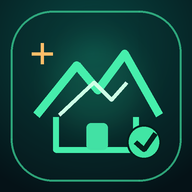
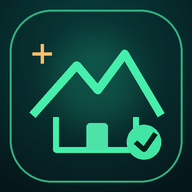
Add files via upload

diff --git a/index.html b/index.html
@@ -8,80 +8,75 @@
 <meta name="theme-color" content="#07191c">
 <link rel="apple-touch-icon" href="icon-192.png">
 <style>
-:root{--bg:#07191c;--panel:#10272a;--panel2:#143236;--text:#e8f4ef;--mute:#91aaa3;--acc:#42e6a4;--cyan:#55d9d0;--amber:#ffbd69;--line:#28504d;color-scheme:dark;box-sizing:border-box;padding-top:env(safe-area-inset-top,0px)}
-*{box-sizing:border-box;font-family:Inter,ui-sans-serif,system-ui,-apple-system,"Segoe UI",sans-serif!important}
-html,body{margin:0;background:radial-gradient(ellipse at 50% -15%,#174344 0%,var(--bg) 52%);color:var(--text);font-size:16px;-webkit-text-size-adjust:100%;min-height:100%}
-html{scroll-padding-top:env(safe-area-inset-top,0px)}
-main{padding:20px 16px calc(82px + env(safe-area-inset-bottom,0px));max-width:680px;margin:0 auto}
-h1{font-size:22px;color:var(--text);letter-spacing:-.5px;margin:8px 0 14px;font-weight:800}
-.art{color:var(--acc);font-size:13px;line-height:1.1;margin:4px 0 12px}
-.card{background:linear-gradient(145deg,rgba(20,50,54,.96),rgba(12,34,37,.96));border:1px solid var(--line);border-radius:18px!important;padding:14px;margin-bottom:11px;box-shadow:0 8px 22px #0002}
-.next{border:1px solid var(--acc);box-shadow:0 0 0 1px #42e6a422,0 8px 24px #0003}.done{opacity:.58}
-.row{display:flex;align-items:center;justify-content:space-between;gap:9px}
-.tip{font-size:13px;color:var(--mute)}.rd{color:var(--acc)}
-button{background:#143b3a;border:1px solid #32665e;border-radius:12px!important;color:var(--acc);font-size:14px;font-weight:650;padding:9px 11px;text-decoration:none}
-input[type=checkbox]{appearance:none;width:23px;height:23px;margin:0;background:#0a2022;border:1px solid #5d8178;border-radius:7px!important;vertical-align:middle;flex:none;position:relative}
-input[type=checkbox]:checked{background:var(--acc);border-color:var(--acc)}input[type=checkbox]:checked:after{content:"✓";position:absolute;inset:-1px 0 0;text-align:center;color:#06231c;font-weight:900;font-size:16px}
-select,input[type=text],input[type=time],input[type=number]{background:#0a2022;color:var(--text);border:1px solid #32605a;border-radius:11px!important;font-size:16px;padding:10px;width:100%}
-.t{color:var(--cyan);font-weight:750;flex:none;width:6ch}.w{display:flex;gap:7px;flex-wrap:wrap;margin-top:9px}
-nav{position:fixed;left:0;right:0;bottom:0;display:flex;background:rgba(5,22,24,.96);backdrop-filter:blur(18px);border-top:1px solid #28504d;padding:7px 6px calc(7px + env(safe-area-inset-bottom,0px));z-index:5}
-nav button{flex:1;height:48px;text-decoration:none;color:var(--mute);background:transparent;border:0;border-radius:12px!important;padding:0;font-size:12px;letter-spacing:.2px}nav button.on{color:#06251e;background:var(--acc)}
+:root{--bg:#07191c;--text:#e8f4ef;--mute:#91aaa3;--acc:#42e6a4;--line:#28504d;color-scheme:dark;box-sizing:border-box;padding-top:env(safe-area-inset-top,0px)}
+*{box-sizing:border-box;font-family:Inter,system-ui,-apple-system,"Segoe UI",sans-serif!important}
+html,body{margin:0;background:radial-gradient(ellipse at 50% -15%,#174344 0%,var(--bg) 55%);color:var(--text);font-size:16px;-webkit-text-size-adjust:100%;min-height:100%}
+main{padding:18px 15px calc(78px + env(safe-area-inset-bottom,0px));max-width:680px;margin:0 auto}
+h1{font-size:22px;color:var(--text);letter-spacing:-.4px;margin:8px 0 14px;font-weight:800}.art{color:var(--acc);font-size:13px;line-height:1.1;margin:4px 0 10px}
+.card{background:linear-gradient(145deg,#143236,#0c2225);border:1px solid var(--line);border-radius:17px!important;padding:14px;margin-bottom:11px;box-shadow:0 8px 22px #0002}.next{border:1px solid var(--acc);box-shadow:0 0 0 1px #42e6a422}.done{opacity:.55}
+.row{display:flex;align-items:center;justify-content:space-between;gap:8px}.tip{font-size:13px;color:var(--mute)}.rd{color:var(--acc)}
+button{background:#143b3a;border:1px solid #32665e;border-radius:11px!important;color:var(--acc);font-size:13px;font-weight:650;padding:8px 10px;text-decoration:none}
+input[type=checkbox]{appearance:none;width:23px;height:23px;margin:0;background:#0a2022;border:1px solid #5d8178;border-radius:7px!important;vertical-align:middle;flex:none;position:relative}input[type=checkbox]:checked{background:var(--acc);border-color:var(--acc)}input[type=checkbox]:checked:after{content:"✓";position:absolute;inset:-1px 0 0;text-align:center;color:#06231c;font-weight:900;font-size:16px}
+select,input[type=text],input[type=time],input[type=number]{background:#0a2022;color:var(--text);border:1px solid #32605a;border-radius:10px!important;font-size:16px;padding:9px;width:100%}.t{color:#55d9d0;flex:none;width:6ch;font-weight:750}.w{display:flex;gap:7px;flex-wrap:wrap;margin-top:8px}
+nav{position:fixed;left:0;right:0;bottom:0;display:flex;background:rgba(5,22,24,.97);border-top:1px solid #28504d;padding:6px 5px calc(6px + env(safe-area-inset-bottom,0px));z-index:5;gap:3px}nav button{flex:1;height:47px;text-decoration:none;color:var(--mute);background:transparent;border:0;border-radius:10px!important;padding:0;font-size:11px;letter-spacing:.2px}nav button.on{color:#06251e;background:var(--acc)}
 </style>
 </head>
 <body>
 <main id="app"></main>
-<nav><button id="t1">[TODAY]</button><button id="t2">[WEEK]</button><button id="t3">[EDIT]</button></nav>
+<nav><button id="t1">Today</button><button id="t2">Week</button><button id="t3">Edit</button><button id="meals" onclick="location.href='./meals/index.html'">Meals</button><button id="lift" onclick="location.href='./lift/index.html'">Lift</button></nav>
 <script>
-var IC={sleep:"☾",water:"滴",study:"▤",social:"♡",eat:"✦",free:"•",move:"↗",clean:"⌂"};
+var IC={sleep:"zz",water:"~",study:"##",social:"@",eat:"*",free:"+",move:">"};
 var DEF=[
- {id:201,t:"08:00",n:"Wake up. Open curtains, get daylight and drink 250ml water",c:"sleep",ml:250},
- {id:202,t:"08:05",n:"Use the toilet, wash hands and start the day",c:"free"},
- {id:203,t:"08:10",n:"Make your bed and open the window briefly to freshen the room",c:"clean"},
- {id:204,t:"08:15",n:"Morning face care: gently cleanse, pat dry and moisturise; apply SPF 30–50 if going outdoors",c:"free"},
- {id:205,t:"08:20",n:"Brush teeth for 2 minutes with fluoride toothpaste. Spit, don't rinse",c:"free"},
- {id:206,t:"08:25",n:"Shower day: wash armpits, groin, bum, feet and skin folds with body wash; rinse well",c:"free",d:"days:1,3,5,0"},
- {id:242,t:"08:25",n:"Non-shower day: wash face, armpits, groin and feet; use a clean flannel and freshen up",c:"free",d:"days:2,4,6"},
- {id:243,t:"08:32",n:"Hair wash: shampoo your scalp gently, rinse well, then condition the mid-lengths and ends; rinse as directed",c:"free",d:"days:0,3"},
- {id:207,t:"08:40",n:"Dry thoroughly after showering or washing, especially between toes and skin folds; use a clean towel",c:"free"},
- {id:208,t:"08:40",n:"Apply deodorant to dry underarms; put on fresh underwear, socks and clothes",c:"free"},
- {id:209,t:"08:45",n:"Comb/style hair and check nails, beard and general grooming",c:"free"},
- {id:210,t:"08:50",n:"Apply fragrance: start with 1–2 sprays on clean, dry skin",c:"free"},
- {id:211,t:"09:00",n:"Breakfast and any planned supplements (e.g. creatine if using)",c:"eat"},
- {id:212,t:"10:30",n:"Drink 250ml water and take a short movement break",c:"water",ml:250},
- {id:213,t:"12:30",n:"Lunch and a glass of water",c:"eat","ml":250},
- {id:214,t:"13:00",n:"Use mouthwash at a separate time from brushing; follow the bottle directions",c:"free"},
- {id:215,t:"15:30",n:"Drink 250ml water; take a short walk or stretch break",c:"water",ml:250},
- {id:216,t:"18:00",n:"Workout or planned activity; take water and follow your training plan",c:"move"},
- {id:217,t:"19:00",n:"Dinner and a glass of water",c:"eat","ml":250},
- {id:218,t:"20:00",n:"10-minute room reset: put clothes in laundry, clear surfaces and put items away",c:"clean"},
- {id:219,t:"20:10",n:"Wash dishes, wipe kitchen worktops and sink after eating",c:"clean"},
- {id:220,t:"20:20",n:"Check bins and recycling; empty if full and replace the liner",c:"clean"},
- {id:221,t:"21:30",n:"Evening face care: cleanse gently and apply moisturiser",c:"free"},
- {id:222,t:"21:40",n:"Floss carefully between every tooth; be gentle around the gumline",c:"free"},
- {id:223,t:"21:45",n:"Gently clean your tongue with the scraper; don't press hard",c:"free"},
- {id:224,t:"21:50",n:"Brush teeth for 2 minutes with fluoride toothpaste. Spit, don't rinse",c:"free"},
- {id:225,t:"22:10",n:"Prepare tomorrow: choose clothes, check plans and get anything ready",c:"free"},
- {id:226,t:"22:20",n:"Final home check: cups away, floor clear, doors/windows secure",c:"clean"},
- {id:227,t:"23:00",n:"Start wind-down: dim lights, lower stimulation and stop busy tasks",c:"sleep"},
- {id:228,t:"23:15",n:"Put phone away or use a calm activity; keep bedroom cool, dark and quiet",c:"sleep"},
- {id:229,t:"00:00",n:"Lights out. Sleep target: midnight to 8:00am (8 hours)",c:"sleep"},
- {id:230,t:"17:30",n:"Laundry day: wash clothes, dry them fully and put them away",c:"clean",d:"d1"},
- {id:231,t:"17:30",n:"Bathroom clean: sink, taps, toilet, shower/bath and floor",c:"clean",d:"d2"},
- {id:232,t:"17:30",n:"Dust bedroom and living areas: desk, shelves, skirting and reachable surfaces",c:"clean",d:"d3"},
- {id:233,t:"17:30",n:"Vacuum bedroom and main floors; mop hard floors if needed",c:"clean",d:"d4"},
- {id:234,t:"17:30",n:"Wash towels and bath mat; hang them fully open to dry",c:"clean",d:"d5"},
- {id:235,t:"11:00",n:"Change bedsheets and pillowcases; put used bedding in the wash",c:"clean",d:"d6"},
- {id:236,t:"11:30",n:"Weekly kitchen reset: clean hob, microwave exterior, fridge handles and bin area",c:"clean",d:"d0"},
- {id:237,t:"12:00",n:"Personal upkeep: trim/file nails, clean trimmer heads and wipe grooming tools",c:"free",d:"d0"},
- {id:238,t:"12:15",n:"Check toiletries and laundry supplies; add anything running low to your shopping list",c:"free",d:"d0"},
- {id:239,t:"17:00",n:"Monthly deep clean: bathroom tiles, grout, shower screen and hard-to-reach areas",c:"clean",d:"m1"},
- {id:240,t:"17:20",n:"Clean windows, mirrors and inside appliances (microwave/fridge shelves)",c:"clean",d:"m1"},
- {id:241,t:"17:40",n:"Declutter one drawer, shelf or storage area; put unwanted items aside",c:"clean",d:"m1"}
+{id:1,t:"08:00",n:"Wake up, drink water, open curtains and get 10–20 minutes of daylight",c:"sleep",ml:250},
+{id:2,t:"08:05",n:"Use the toilet, wash hands and make your bed",c:"free"},
+{id:21,t:"08:10",n:"Weigh in (after toilet, before breakfast)",c:"free",d:"d1"},
+{id:30,t:"08:15",n:"Face: gentle cleanser, moisturiser and SPF 30–50",c:"free"},
+{id:31,t:"08:20",n:"Brush teeth for 2 minutes with fluoride toothpaste; spit, don't rinse",c:"free"},
+{id:32,t:"08:25",n:"Shower: wash underarms, external groin, bottom, feet and sweaty areas",c:"free",d:"days:1,3,5,0"},
+{id:33,t:"08:25",n:"Non-shower day: wash face, underarms, external groin and feet with a clean flannel",c:"free",d:"days:2,4,6"},
+{id:34,t:"08:40",n:"Dry thoroughly, especially feet and skin folds; put on clean underwear and socks",c:"free"},
+{id:35,t:"08:45",n:"Apply deodorant to clean, dry underarms; moisturise dry body areas",c:"free"},
+{id:36,t:"08:50",n:"Hair wash: shampoo scalp, rinse, condition mid-lengths and ends",c:"free",d:"days:0,3"},
+{id:37,t:"08:55",n:"Comb/style hair and apply fragrance (start with 1–2 sprays)",c:"free"},
+{id:3,t:"09:00",n:"Breakfast and 5g creatine if this is part of your plan",c:"eat"},
+{id:4,t:"10:00",n:"Study / focused work block 1",c:"study"},
+{id:5,t:"11:00",n:"Drink water and stretch for 5 minutes",c:"water",ml:250},
+{id:6,t:"11:30",n:"Walk outside for 20–30 minutes",c:"move"},
+{id:7,t:"12:30",n:"Protein snack or shake if it fits your nutrition plan",c:"eat",ml:300},
+{id:8,t:"13:30",n:"Caffeine cut-off: avoid caffeine from this point",c:"sleep"},
+{id:9,t:"14:00",n:"Lunch and a glass of water",c:"eat",ml:250},
+{id:26,t:"14:30",n:"Mouthwash if using: follow label; keep separate from brushing",c:"free"},
+{id:10,t:"15:00",n:"Study / focused work block 2",c:"study"},
+{id:11,t:"16:30",n:"Drink water and take a short movement break",c:"water",ml:250},
+{id:13,t:"18:00",n:"Strength workout on planned training days; otherwise light activity",c:"move",d:"wk",ml:250},
+{id:15,t:"19:00",n:"Post-workout protein if needed to meet daily protein target",c:"eat"},
+{id:16,t:"19:30",n:"Dinner",c:"eat"},
+{id:40,t:"20:00",n:"Five-minute room reset: clothes away, surfaces clear, rubbish checked",c:"clean"},
+{id:41,t:"20:10",n:"Wash dishes and wipe kitchen worktops after eating",c:"clean"},
+{id:18,t:"21:00",n:"Water; prepare tomorrow's clothes and any food that needs defrosting",c:"water",ml:200},
+{id:19,t:"22:00",n:"Floss between teeth, then gently clean tongue",c:"free"},
+{id:27,t:"22:10",n:"Brush teeth for 2 minutes with fluoride toothpaste; spit, don't rinse",c:"free"},
+{id:28,t:"22:25",n:"Wash face and apply moisturiser; lip balm if needed",c:"free"},
+{id:29,t:"22:40",n:"Prepare tomorrow: check schedule, tidy bedside and set alarm",c:"free"},
+{id:20,t:"23:00",n:"Wind down: dim lights, reduce screens and relax",c:"sleep"},
+{id:100,t:"00:00",n:"Lights out — target 8 hours until 08:00",c:"sleep"},
+{id:50,t:"17:00",n:"Laundry: wash, dry and put clothes away",c:"clean",d:"d1"},
+{id:51,t:"17:00",n:"Clean bathroom: sink, toilet, shower and taps",c:"clean",d:"d2"},
+{id:52,t:"17:00",n:"Dust bedroom, desk and shelves",c:"clean",d:"d3"},
+{id:53,t:"17:00",n:"Vacuum bedroom and main floors; mop hard floors if needed",c:"clean",d:"d4"},
+{id:54,t:"17:00",n:"Wash towels and bath mat; replace with clean ones",c:"clean",d:"d5"},
+{id:55,t:"11:00",n:"Change bedsheets and pillowcases; air the bed",c:"clean",d:"d6"},
+{id:56,t:"11:30",n:"Kitchen reset: clean hob, sink, fridge handles and bins",c:"clean",d:"d0"},
+{id:57,t:"12:00",n:"Weekly grooming: trim/file nails, clean trimmer and hairbrush",c:"free",d:"d0"},
+{id:58,t:"12:30",n:"Weekly review: check progress and plan the coming week",c:"free",d:"d0"},
+{id:59,t:"11:00",n:"Monthly deep clean: bathroom tiles, grout and hard-to-reach areas",c:"clean",d:"m1"},
+{id:60,t:"11:30",n:"Monthly clean: windows, mirrors and inside appliances",c:"clean",d:"m1"},
+{id:61,t:"12:00",n:"Monthly declutter: one drawer, shelf or storage area",c:"clean",d:"m1"}
 ];
 var S,tab=1;
 try{S=JSON.parse(localStorage.getItem("rt1"))}catch(e){}
 if(!S||!S.r||!S.days)S={r:JSON.parse(JSON.stringify(DEF)),days:{},wt:2000,v:4};
-if(S.v!==8){S.r=JSON.parse(JSON.stringify(DEF));S.v=8}
+if(S.v!==9){S.r=JSON.parse(JSON.stringify(DEF));S.v=9}
 function save(){try{localStorage.setItem("rt1",JSON.stringify(S))}catch(e){}}
 function key(d){d=d||new Date();return d.getFullYear()+"-"+("0"+(d.getMonth()+1)).slice(-2)+"-"+("0"+d.getDate()).slice(-2)}
 function day(k){return S.days[k]||(S.days[k]={d:{},w:0})}
@@ -99,21 +94,21 @@ function today(){
  for(var i=0;i<L.length;i++)if(!dd.d[L[i].id]&&ord(L[i].t)>=nm-30){nx=i;break}
  if(nx<0)for(i=0;i<L.length;i++)if(!dd.d[L[i].id]){nx=i;break}
  var p=pct(k),wp=Math.round(100*dd.w/S.wt);
- var h='<pre class="art">'+[" .-----------.","|   12:00    |","|  [x] [ ]   |"," '-----------'"," zz  ~  >  ## "].join("\n")+'</pre><h1>TODAY</h1>';
+ var h='<pre class="art">'+[" .-----------.","|   12:00    |","|  [x] [ ]   |"," '-----------'"," zz  ~  >  ## "].join("\n")+'</pre><h1>== TODAY ==</h1>';
  h+='<div class="card"><b>> PROGRESS</b><div class="tip" style="margin-top:6px">'+bar(p,20)+' '+p+'%</div></div>';
  var sp=slp();if(sp)h+='<div class="card"><b>> SLEEP</b><div class="tip" style="margin-top:6px">Lights out '+sp.bed+', wake '+sp.wake+', plan '+sp.h.toFixed(1)+' hours</div><div class="row" style="margin-top:6px"><span class="tip">Last night (hours)</span><input type="number" step="0.5" id="sl" value="'+(dd.sl||"")+'" inputmode="decimal" style="width:90px"></div></div>';
  h+='<div class="card"><b>> WATER</b><div class="tip" style="margin-top:6px">'+bar(wp,20)+' '+dd.w+' / '+S.wt+'ml</div><div class="w"><button data-w="250">[+250ml]</button><button data-w="100">[+100ml]</button><button data-w="-250">[-250ml]</button></div></div>';
  L.forEach(function(b,i){h+='<div class="card'+(dd.d[b.id]?' done':'')+(i===nx?' next':'')+'"><div class="row"><input type="checkbox" data-b="'+b.id+'"'+(dd.d[b.id]?' checked':'')+'><span class="t">'+esc(b.t)+'</span><span style="flex:1">'+esc(b.n)+'</span><span class="tip">'+(b.ml?"+"+b.ml+"ml ":"")+(IC[b.c]||"")+'</span></div>'+(i===nx?'<div class="tip rd" style="margin-top:4px">&gt; next up</div>':'')+'</div>'});
  return h}
 function week(){
- var h='<h1>THIS WEEK</h1>',tot=0,st=0,run=0,nm=["Sun","Mon","Tue","Wed","Thu","Fri","Sat"];
+ var h='<h1>== WEEK ==</h1>',tot=0,st=0,run=0,nm=["Sun","Mon","Tue","Wed","Thu","Fri","Sat"];
  for(var i=6;i>=0;i--){var d=new Date();d.setDate(d.getDate()-i);var k=key(d),p=pct(k),w=(S.days[k]||{w:0}).w;tot+=p;
   h+='<div class="card"><div class="row"><b>'+nm[d.getDay()]+' '+k.slice(5)+'</b><span class="tip">'+p+'%</span></div><div class="tip" style="margin-top:6px">'+bar(p,20)+'</div><div class="tip">water '+bar(Math.round(100*w/S.wt),10)+' '+w+'ml</div></div>'}
  for(i=0;i<60;i++){var d2=new Date();d2.setDate(d2.getDate()-i);if(pct(key(d2))>=70)run++;else if(i>0)break;else if(i===0)continue}
  return h+'<div class="card"><b>> SUMMARY</b><div class="tip" style="margin-top:6px">7-day average: '+Math.round(tot/7)+'%'+(function(){var t=0,n=0;for(var i=0;i<7;i++){var d=new Date();d.setDate(d.getDate()-i);var v=(S.days[key(d)]||{}).sl;if(v>0){t+=v;n++}}return n?'<br>Average sleep: '+(t/n).toFixed(1)+'h ('+n+' nights logged)':''})()+'<br>Streak of days at 70% or more: '+run+'</div></div>'}
 function edit(){
- var h='<h1>EDIT ROUTINE</h1><p class="tip">Change times, names or switch blocks off. Times before 06:00 count as after midnight.</p><div class="card"><span class="tip">Water target (ml)</span><input type="number" id="wt" value="'+S.wt+'" inputmode="numeric"></div><div class="card"><b>> SHIFT THE WHOLE DAY</b><div class="tip">Moves every time earlier or later. Use it to move your sleep 15 minutes at a time.</div><button data-sh="-15">[15 min earlier]</button><button data-sh="15">[15 min later]</button></div>';
- list().forEach(function(b){h+='<div class="card"><div class="row"><input type="checkbox" data-on="'+b.id+'"'+(b.on!==false?' checked':'')+'><input type="time" data-t="'+b.id+'" value="'+esc(b.t)+'" style="width:120px"><select data-d="'+b.id+'" style="width:110px"><option value="all"'+(!b.d?" selected":"")+'>Every day</option><option value="wk"'+(b.d==="wk"?" selected":"")+'>Mon-Fri</option><option value="we"'+(b.d==="we"?" selected":"")+'>Sat-Sun</option><option value="d0"'+(b.d==="d0"?" selected":"")+'>Sun only</option><option value="d1"'+(b.d==="d1"?" selected":"")+'>Mon only</option><option value="d2"'+(b.d==="d2"?" selected":"")+'>Tue only</option><option value="d3"'+(b.d==="d3"?" selected":"")+'>Wed only</option><option value="d4"'+(b.d==="d4"?" selected":"")+'>Thu only</option><option value="d5"'+(b.d==="d5"?" selected":"")+'>Fri only</option><option value="d6"'+(b.d==="d6"?" selected":"")+'>Sat only</option><option value="days:1,3,5,0"'+(b.d==="days:1,3,5,0"?" selected":"")+'>Mon/Wed/Fri/Sun</option><option value="days:0,3"'+(b.d==="days:0,3"?" selected":"")+'>Wed/Sun</option><option value="days:2,4,6"'+(b.d==="days:2,4,6"?" selected":"")+'>Tue/Thu/Sat</option><option value="m1"'+(b.d==="m1"?" selected":"")+'>Monthly (1st)</option></select><button data-x="'+b.id+'">[delete]</button></div><input type="text" data-n="'+b.id+'" value="'+esc(b.n)+'" style="margin-top:6px"></div>'});
+ var h='<h1>== EDIT ==</h1><p class="tip">Change times, names or switch blocks off. Times before 06:00 count as after midnight.</p><div class="card"><span class="tip">Water target (ml)</span><input type="number" id="wt" value="'+S.wt+'" inputmode="numeric"></div><div class="card"><b>> SHIFT THE WHOLE DAY</b><div class="tip">Moves every time earlier or later. Use it to move your sleep 15 minutes at a time.</div><button data-sh="-15">[15 min earlier]</button><button data-sh="15">[15 min later]</button></div>';
+ list().forEach(function(b){h+='<div class="card"><div class="row"><input type="checkbox" data-on="'+b.id+'"'+(b.on!==false?' checked':'')+'><input type="time" data-t="'+b.id+'" value="'+esc(b.t)+'" style="width:120px"><select data-d="'+b.id+'" style="width:110px"><option value="all"'+(!b.d?" selected":"")+'>Every day</option><option value="wk"'+(b.d==="wk"?" selected":"")+'>Mon-Fri</option><option value="we"'+(b.d==="we"?" selected":"")+'>Sat-Sun</option><option value="d1"'+(b.d==="d1"?" selected":"")+'>Mon only</option><option value="d0"'+(b.d==="d0"?" selected":"")+'>Sun only</option><option value="days:1,3,5,0"'+(b.d==="days:1,3,5,0"?" selected":"")+'>Mon/Wed/Fri/Sun</option><option value="days:0,3"'+(b.d==="days:0,3"?" selected":"")+'>Wed/Sun</option><option value="m1"'+(b.d==="m1"?" selected":"")+'>Monthly (1st)</option></select><button data-x="'+b.id+'">[delete]</button></div><input type="text" data-n="'+b.id+'" value="'+esc(b.n)+'" style="margin-top:6px"></div>'});
  return h+'<button id="add">[+ add block]</button><br><button id="rs" class="tip">[reset routine]</button>'}
 function render(){var y=window.scrollY;document.getElementById("app").innerHTML=tab===1?today():tab===2?week():edit();
  for(var i=1;i<4;i++)document.getElementById("t"+i).className=tab===i?"on":"";window.scrollTo(0,y);bind()}

diff --git a/sw.js b/sw.js
@@ -1,4 +1,4 @@
-var C="routine-v8",F=["./","./index.html","./manifest.json","./icon-192.png","./icon-512.png"];
+var C="routinehub-v10",F=["./","./index.html","./manifest.json","./icon-192.png","./icon-512.png","./meals/index.html","./meals/manifest.json","./meals/icon-192.png","./meals/icon-512.png","./meals/sw.js","./lift/index.html","./lift/manifest.json","./lift/icon-192.png","./lift/icon-512.png","./lift/sw.js"];
 self.addEventListener("install",function(e){e.waitUntil(caches.open(C).then(function(c){return c.addAll(F)}));self.skipWaiting()});
-self.addEventListener("activate",function(e){e.waitUntil(caches.keys().then(function(k){return Promise.all(k.filter(function(x){return x!==C}).map(function(x){return caches.delete(x)}))}).then(function(){return self.clients.claim()}))});
-self.addEventListener("fetch",function(e){e.respondWith(fetch(e.request).then(function(r){var c2=r.clone();caches.open(C).then(function(c){c.put(e.request,c2)});return r}).catch(function(){return caches.match(e.request)}))});
+self.addEventListener("activate",function(e){e.waitUntil(caches.keys().then(function(k){return Promise.all(k.filter(function(x){return x!==C&&x!=="meal-prep-v1"}).map(function(x){return caches.delete(x)}))}).then(function(){return self.clients.claim()}))});
+self.addEventListener("fetch",function(e){e.respondWith(fetch(e.request).then(function(r){var c=r.clone();caches.open(C).then(function(x){x.put(e.request,c)});return r}).catch(function(){return caches.match(e.request)}))});

diff --git a/build.py b/build.py
@@ -1,0 +1,106 @@
+from pathlib import Path
+import json
+p=Path('/mnt/data/routinehub_merged/index.html'); s=p.read_text()
+# modern theme
+s=s.replace('<title>Routine</title>','<title>RoutineHub</title>').replace('<meta name="theme-color" content="#0b0b0b">','<meta name="theme-color" content="#07191c">')
+a=s.index('<style>'); b=s.index('</style>',a)+8
+css='''<style>
+:root{--bg:#07191c;--text:#e8f4ef;--mute:#91aaa3;--acc:#42e6a4;--line:#28504d;color-scheme:dark;box-sizing:border-box;padding-top:env(safe-area-inset-top,0px)}
+*{box-sizing:border-box;font-family:Inter,system-ui,-apple-system,"Segoe UI",sans-serif!important}
+html,body{margin:0;background:radial-gradient(ellipse at 50% -15%,#174344 0%,var(--bg) 55%);color:var(--text);font-size:16px;-webkit-text-size-adjust:100%;min-height:100%}
+main{padding:18px 15px calc(78px + env(safe-area-inset-bottom,0px));max-width:680px;margin:0 auto}
+h1{font-size:22px;color:var(--text);letter-spacing:-.4px;margin:8px 0 14px;font-weight:800}.art{color:var(--acc);font-size:13px;line-height:1.1;margin:4px 0 10px}
+.card{background:linear-gradient(145deg,#143236,#0c2225);border:1px solid var(--line);border-radius:17px!important;padding:14px;margin-bottom:11px;box-shadow:0 8px 22px #0002}.next{border:1px solid var(--acc);box-shadow:0 0 0 1px #42e6a422}.done{opacity:.55}
+.row{display:flex;align-items:center;justify-content:space-between;gap:8px}.tip{font-size:13px;color:var(--mute)}.rd{color:var(--acc)}
+button{background:#143b3a;border:1px solid #32665e;border-radius:11px!important;color:var(--acc);font-size:13px;font-weight:650;padding:8px 10px;text-decoration:none}
+input[type=checkbox]{appearance:none;width:23px;height:23px;margin:0;background:#0a2022;border:1px solid #5d8178;border-radius:7px!important;vertical-align:middle;flex:none;position:relative}input[type=checkbox]:checked{background:var(--acc);border-color:var(--acc)}input[type=checkbox]:checked:after{content:"✓";position:absolute;inset:-1px 0 0;text-align:center;color:#06231c;font-weight:900;font-size:16px}
+select,input[type=text],input[type=time],input[type=number]{background:#0a2022;color:var(--text);border:1px solid #32605a;border-radius:10px!important;font-size:16px;padding:9px;width:100%}.t{color:#55d9d0;flex:none;width:6ch;font-weight:750}.w{display:flex;gap:7px;flex-wrap:wrap;margin-top:8px}
+nav{position:fixed;left:0;right:0;bottom:0;display:flex;background:rgba(5,22,24,.97);border-top:1px solid #28504d;padding:6px 5px calc(6px + env(safe-area-inset-bottom,0px));z-index:5;gap:3px}nav button{flex:1;height:47px;text-decoration:none;color:var(--mute);background:transparent;border:0;border-radius:10px!important;padding:0;font-size:11px;letter-spacing:.2px}nav button.on{color:#06251e;background:var(--acc)}
+</style>'''
+s=s[:a]+css+s[b:]
+s=s.replace('<nav><button id="t1">[TODAY]</button><button id="t2">[WEEK]</button><button id="t3">[EDIT]</button></nav>','<nav><button id="t1">Today</button><button id="t2">Week</button><button id="t3">Edit</button><button id="meals" onclick="location.href=\'./meals/index.html\'">Meals</button></nav>')
+# Detailed routine, include weekly clean rota, daily + day-specific shower/hair
+start=s.index('var DEF='); end=s.index('\nvar S,tab=1;',start)
+defs='''var DEF=[
+{id:1,t:"08:00",n:"Wake up, drink water, open curtains and get 10–20 minutes of daylight",c:"sleep",ml:250},
+{id:2,t:"08:05",n:"Use the toilet, wash hands and make your bed",c:"free"},
+{id:21,t:"08:10",n:"Weigh in (after toilet, before breakfast)",c:"free",d:"d1"},
+{id:30,t:"08:15",n:"Face: gentle cleanser, moisturiser and SPF 30–50",c:"free"},
+{id:31,t:"08:20",n:"Brush teeth for 2 minutes with fluoride toothpaste; spit, don't rinse",c:"free"},
+{id:32,t:"08:25",n:"Shower: wash underarms, external groin, bottom, feet and sweaty areas",c:"free",d:"days:1,3,5,0"},
+{id:33,t:"08:25",n:"Non-shower day: wash face, underarms, external groin and feet with a clean flannel",c:"free",d:"days:2,4,6"},
+{id:34,t:"08:40",n:"Dry thoroughly, especially feet and skin folds; put on clean underwear and socks",c:"free"},
+{id:35,t:"08:45",n:"Apply deodorant to clean, dry underarms; moisturise dry body areas",c:"free"},
+{id:36,t:"08:50",n:"Hair wash: shampoo scalp, rinse, condition mid-lengths and ends",c:"free",d:"days:0,3"},
+{id:37,t:"08:55",n:"Comb/style hair and apply fragrance (start with 1–2 sprays)",c:"free"},
+{id:3,t:"09:00",n:"Breakfast and 5g creatine if this is part of your plan",c:"eat"},
+{id:4,t:"10:00",n:"Study / focused work block 1",c:"study"},
+{id:5,t:"11:00",n:"Drink water and stretch for 5 minutes",c:"water",ml:250},
+{id:6,t:"11:30",n:"Walk outside for 20–30 minutes",c:"move"},
+{id:7,t:"12:30",n:"Protein snack or shake if it fits your nutrition plan",c:"eat",ml:300},
+{id:8,t:"13:30",n:"Caffeine cut-off: avoid caffeine from this point",c:"sleep"},
+{id:9,t:"14:00",n:"Lunch and a glass of water",c:"eat",ml:250},
+{id:26,t:"14:30",n:"Mouthwash if using: follow label; keep separate from brushing",c:"free"},
+{id:10,t:"15:00",n:"Study / focused work block 2",c:"study"},
+{id:11,t:"16:30",n:"Drink water and take a short movement break",c:"water",ml:250},
+{id:13,t:"18:00",n:"Strength workout on planned training days; otherwise light activity",c:"move",d:"wk",ml:250},
+{id:15,t:"19:00",n:"Post-workout protein if needed to meet daily protein target",c:"eat"},
+{id:16,t:"19:30",n:"Dinner",c:"eat"},
+{id:40,t:"20:00",n:"Five-minute room reset: clothes away, surfaces clear, rubbish checked",c:"clean"},
+{id:41,t:"20:10",n:"Wash dishes and wipe kitchen worktops after eating",c:"clean"},
+{id:18,t:"21:00",n:"Water; prepare tomorrow's clothes and any food that needs defrosting",c:"water",ml:200},
+{id:19,t:"22:00",n:"Floss between teeth, then gently clean tongue",c:"free"},
+{id:27,t:"22:10",n:"Brush teeth for 2 minutes with fluoride toothpaste; spit, don't rinse",c:"free"},
+{id:28,t:"22:25",n:"Wash face and apply moisturiser; lip balm if needed",c:"free"},
+{id:29,t:"22:40",n:"Prepare tomorrow: check schedule, tidy bedside and set alarm",c:"free"},
+{id:20,t:"23:00",n:"Wind down: dim lights, reduce screens and relax",c:"sleep"},
+{id:100,t:"00:00",n:"Lights out — target 8 hours until 08:00",c:"sleep"},
+{id:50,t:"17:00",n:"Laundry: wash, dry and put clothes away",c:"clean",d:"d1"},
+{id:51,t:"17:00",n:"Clean bathroom: sink, toilet, shower and taps",c:"clean",d:"d2"},
+{id:52,t:"17:00",n:"Dust bedroom, desk and shelves",c:"clean",d:"d3"},
+{id:53,t:"17:00",n:"Vacuum bedroom and main floors; mop hard floors if needed",c:"clean",d:"d4"},
+{id:54,t:"17:00",n:"Wash towels and bath mat; replace with clean ones",c:"clean",d:"d5"},
+{id:55,t:"11:00",n:"Change bedsheets and pillowcases; air the bed",c:"clean",d:"d6"},
+{id:56,t:"11:30",n:"Kitchen reset: clean hob, sink, fridge handles and bins",c:"clean",d:"d0"},
+{id:57,t:"12:00",n:"Weekly grooming: trim/file nails, clean trimmer and hairbrush",c:"free",d:"d0"},
+{id:58,t:"12:30",n:"Weekly review: check progress and plan the coming week",c:"free",d:"d0"},
+{id:59,t:"11:00",n:"Monthly deep clean: bathroom tiles, grout and hard-to-reach areas",c:"clean",d:"m1"},
+{id:60,t:"11:30",n:"Monthly clean: windows, mirrors and inside appliances",c:"clean",d:"m1"},
+{id:61,t:"12:00",n:"Monthly declutter: one drawer, shelf or storage area",c:"clean",d:"m1"}
+];'''
+s=s[:start]+defs+s[end:]
+# app() day logic
+old='function app(b,k){var g=new Date(k+"T00:00:00").getDay();return!b.d||(b.d==="wk"?g>0&&g<6:b.d==="we"?g===0||g===6:/^d\\d$/.test(b.d)?g===+b.d.charAt(1):true)}'
+new='function app(b,k){var dt=new Date(k+"T00:00:00"),g=dt.getDay();return!b.d||(b.d==="wk"?g>0&&g<6:b.d==="we"?g===0||g===6:b.d==="m1"?dt.getDate()===1:b.d.indexOf("days:")===0?b.d.slice(5).split(",").map(Number).indexOf(g)!==-1:/^d\\d$/.test(b.d)?g===+b.d.charAt(1):true)}'
+if old not in s: print('app old not found')
+else: s=s.replace(old,new)
+# Add select options for custom day filters
+needle='<option value="d0"\'+(b.d==="d0"?" selected":"")+\'>Sun only</option></select>'
+replacement='<option value="d0"\'+(b.d==="d0"?" selected":"")+\'>Sun only</option><option value="days:1,3,5,0"\'+(b.d==="days:1,3,5,0"?" selected":"")+\'>Mon/Wed/Fri/Sun</option><option value="days:0,3"\'+(b.d==="days:0,3"?" selected":"")+\'>Wed/Sun</option><option value="m1"\'+(b.d==="m1"?" selected":"")+\'>Monthly (1st)</option></select>'
+if needle in s:s=s.replace(needle,replacement)
+else: print('select needle not found')
+# migration refresh schedule once to correct previous older routine, preserve day history
+s=s.replace('if(S.v!==4){S.r=JSON.parse(JSON.stringify(DEF));S.v=4}','if(S.v!==9){S.r=JSON.parse(JSON.stringify(DEF));S.v=9}')
+p.write_text(s)
+# root service worker cache meal app too
+Path('/mnt/data/routinehub_merged/sw.js').write_text('''var C="routinehub-v9",F=["./","./index.html","./manifest.json","./icon-192.png","./icon-512.png","./meals/index.html","./meals/manifest.json","./meals/icon-192.png","./meals/icon-512.png","./meals/sw.js"];
+self.addEventListener("install",function(e){e.waitUntil(caches.open(C).then(function(c){return c.addAll(F)}));self.skipWaiting()});
+self.addEventListener("activate",function(e){e.waitUntil(caches.keys().then(function(k){return Promise.all(k.filter(function(x){return x!==C&&x!=="meal-prep-v1"}).map(function(x){return caches.delete(x)}))}).then(function(){return self.clients.claim()}))});
+self.addEventListener("fetch",function(e){e.respondWith(fetch(e.request).then(function(r){var c=r.clone();caches.open(C).then(function(x){x.put(e.request,c)});return r}).catch(function(){return caches.match(e.request)}))});''')
+# Meal app style matches hub; title/manifest branding but still functional app
+mp=Path('/mnt/data/routinehub_merged/meals/index.html'); ms=mp.read_text()
+ms=ms.replace('<title>Meal Prep</title>','<title>RoutineHub · Meals</title>').replace('<meta name="theme-color" content="#0b0b0b">','<meta name="theme-color" content="#07191c">')
+# override legacy monochrome CSS after all style rules
+ms=ms.replace('</style>','''
+:root{--bg:#07191c;--card:#10272a;--text:#e8f4ef;--mute:#91aaa3;--acc:#42e6a4;--line:#28504d;--ok:#143b3a;--okT:#42e6a4;--warn:#3b3020;--warnT:#ffbd69}
+html,body{background:radial-gradient(ellipse at 50% -15%,#174344 0%,#07191c 55%);color:#e8f4ef;font-family:Inter,system-ui,-apple-system,"Segoe UI",sans-serif}
+.card,.sum div{background:linear-gradient(145deg,#143236,#0c2225);border:1px solid #28504d!important;border-radius:16px!important}
+button,.link{color:#42e6a4}nav{background:rgba(5,22,24,.97);border-color:#28504d}nav button.on{color:#42e6a4}
+select,input[type=number]{background:#0a2022;color:#e8f4ef;border:1px solid #32605a;border-radius:10px!important}
+</style>''')
+# internal meal SW registration removed: parent root SW handles cache
+ms=ms.replace('if("serviceWorker" in navigator)navigator.serviceWorker.register("sw.js").catch(function(){});','')
+mp.write_text(ms)
+# meal manifest relative start URL stays local; set standalone false? retain as secondary page
+m=Path('/mnt/data/routinehub_merged/manifest.json'); d=json.loads(m.read_text());d.update(name='RoutineHub',short_name='RoutineHub',background_color='#07191c',theme_color='#07191c');m.write_text(json.dumps(d,separators=(',',':')))
+mm=Path('/mnt/data/routinehub_merged/meals/manifest.json'); d=json.loads(mm.read_text());d.update(name='RoutineHub Meals',short_name='Meals',background_color='#07191c',theme_color='#07191c');mm.write_text(json.dumps(d,separators=(',',':')))

diff --git a/icon.py b/icon.py
@@ -1,0 +1,15 @@
+from PIL import Image,ImageDraw,ImageFilter
+import math
+for sz in (192,512):
+ S=sz*3; im=Image.new('RGB',(S,S)); px=im.load()
+ for y in range(S):
+  for x in range(S):
+   g=max(0,1-math.sqrt(((x-S*.48)/(S*.8))**2+((y-S*.28)/(S*.8))**2));px[x,y]=(5+int(4*g),22+int(50*g),26+int(42*g))
+ d=ImageDraw.Draw(im,'RGBA');d.rounded_rectangle((S*.05,S*.05,S*.95,S*.95),radius=int(S*.22),fill=(7,34,36,70),outline=(65,230,164,180),width=int(S*.012))
+ halo=Image.new('RGBA',(S,S));ImageDraw.Draw(halo).ellipse((S*.2,S*.13,S*.8,S*.73),fill=(49,224,160,40));halo=halo.filter(ImageFilter.GaussianBlur(S*.09));im=Image.alpha_composite(im.convert('RGBA'),halo);d=ImageDraw.Draw(im,'RGBA')
+ d.line([(S*.17,S*.60),(S*.4,S*.34),(S*.51,S*.47),(S*.65,S*.28),(S*.84,S*.60)],fill=(70,238,172,255),width=int(S*.045),joint='curve')
+ d.line([(S*.29,S*.61),(S*.29,S*.78),(S*.71,S*.78),(S*.71,S*.61)],fill=(70,238,172,255),width=int(S*.032),joint='curve')
+ d.rounded_rectangle((S*.45,S*.64,S*.56,S*.78),radius=int(S*.02),fill=(67,225,164,240))
+ d.ellipse((S*.66,S*.65,S*.84,S*.83),fill=(65,230,164,255));d.line([(S*.705,S*.74),(S*.75,S*.78),(S*.81,S*.695)],fill=(5,34,29,255),width=int(S*.027),joint='curve')
+ d.line([(S*.22,S*.23),(S*.22,S*.33)],fill=(255,190,105,255),width=int(S*.018));d.line([(S*.17,S*.28),(S*.27,S*.28)],fill=(255,190,105,255),width=int(S*.018))
+ im.resize((sz,sz),Image.Resampling.LANCZOS).save(f'/mnt/data/routinehub_merged/icon-{sz}.png')
